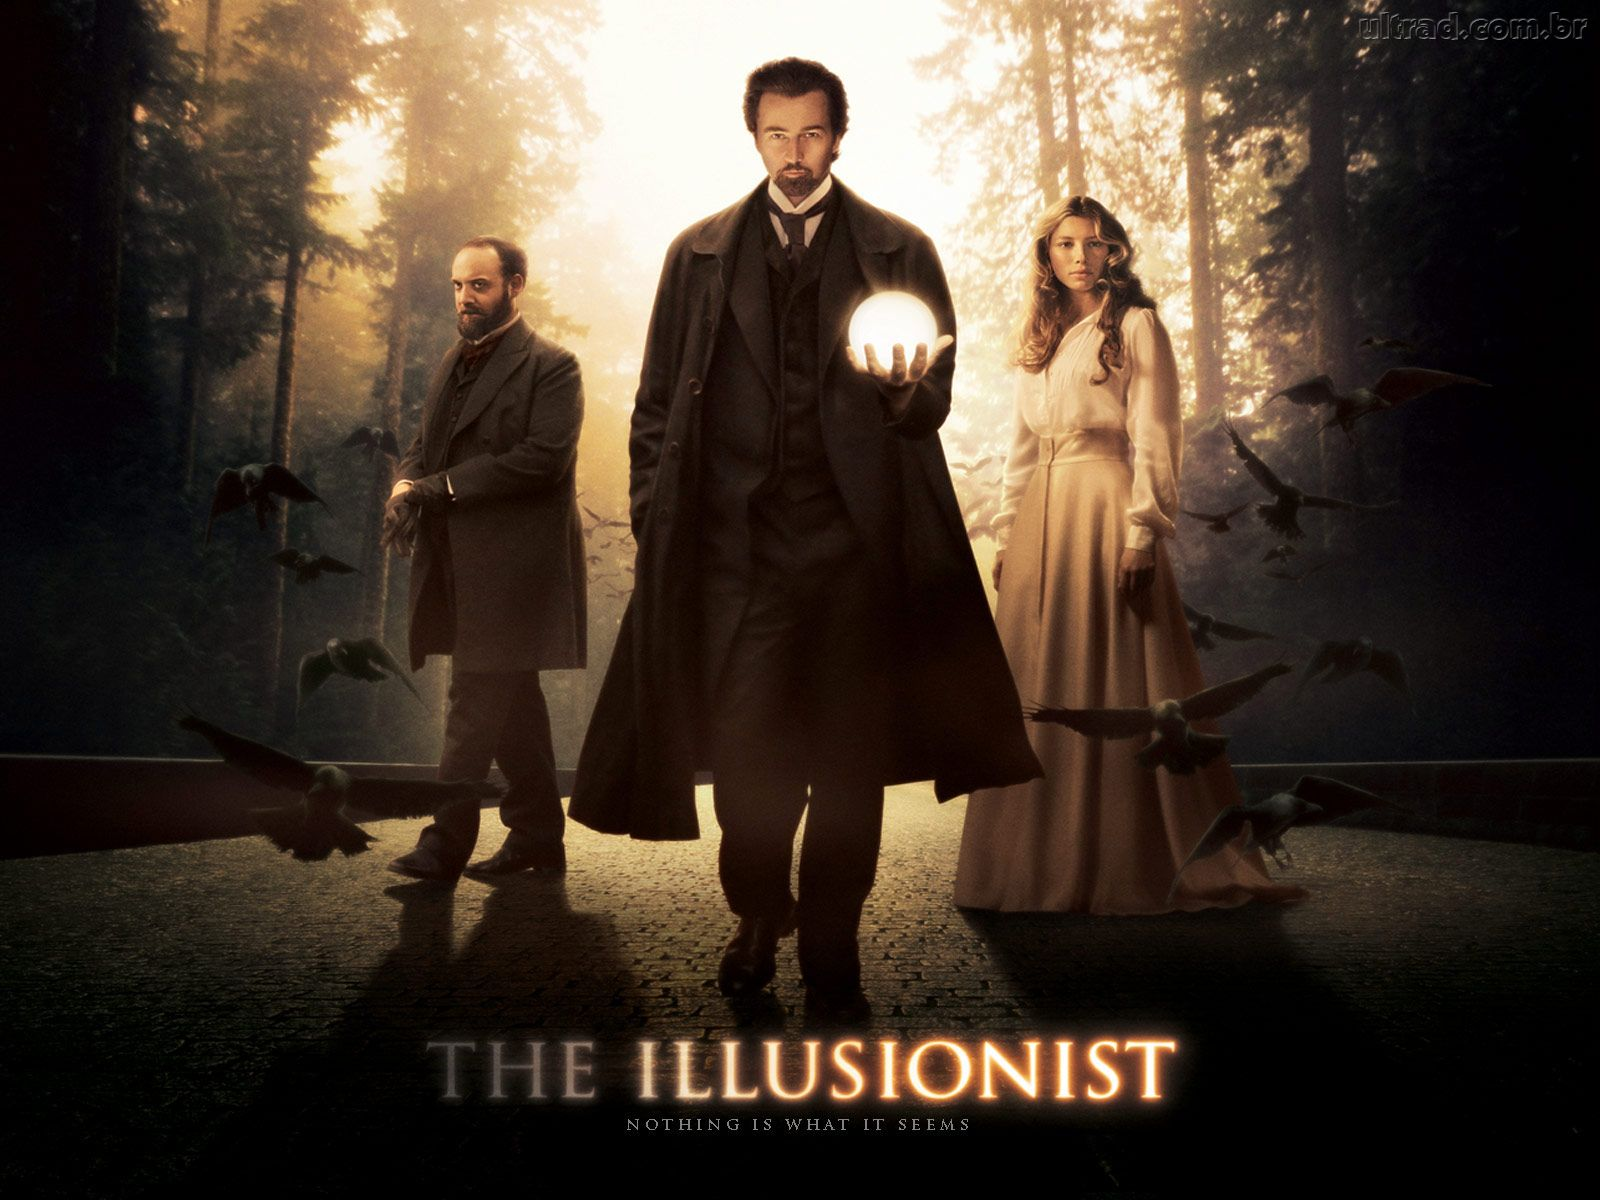
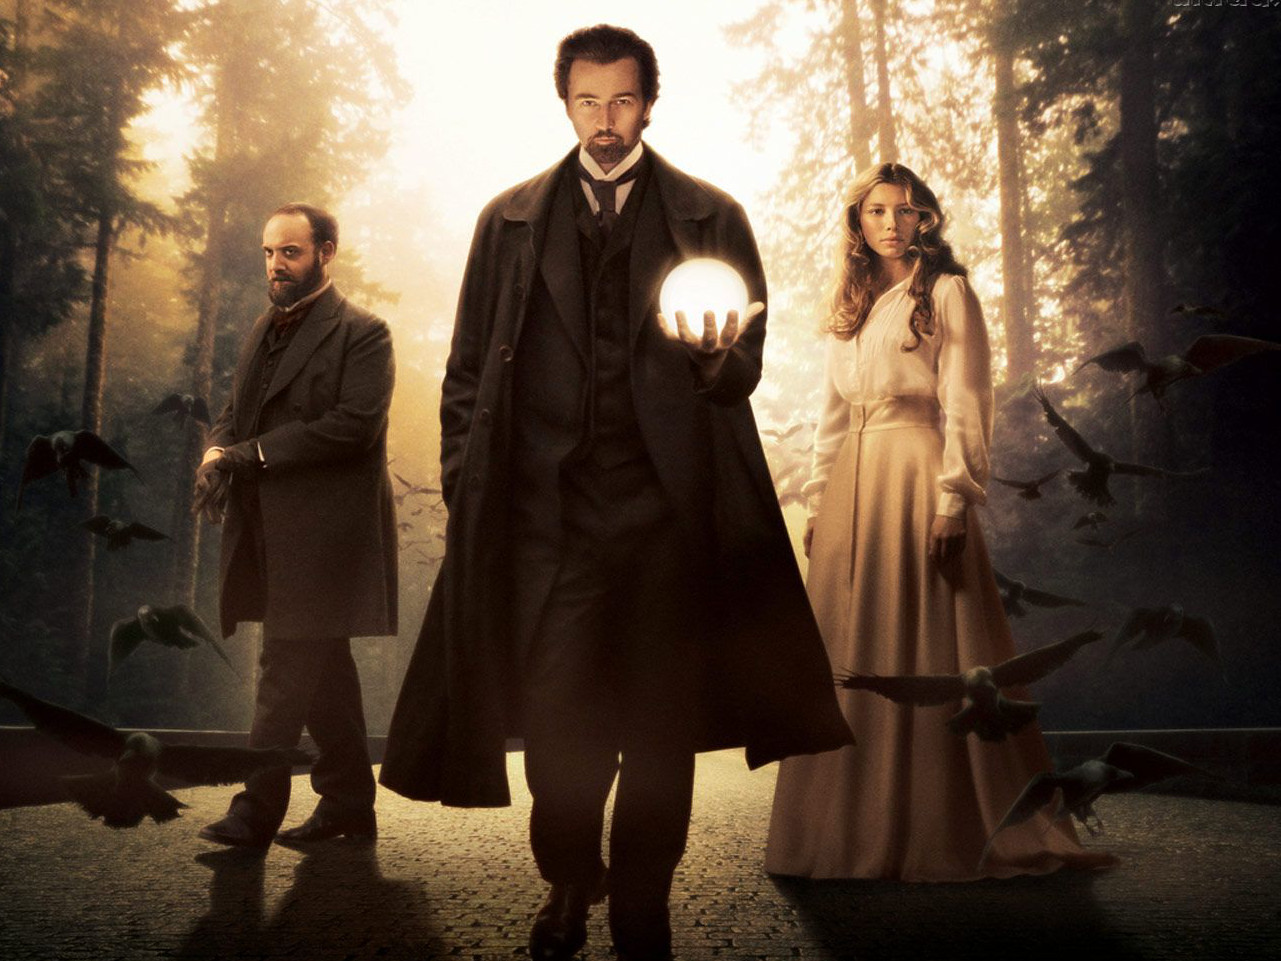
Ajustando imagem

diff --git a/output/index.html b/output/index.html
@@ -104,7 +104,7 @@ Fonte: Jakob Nielsen
 
       <section data-markdown>
         <script type="text/template">
-          <!-- .slide: data-background="images/ilusionista.jpg" -->
+          <!-- .slide: data-background="images/ilusionista.jpg" data-background-size="1024px" -->
 
 # crie ilusões para dar a impressão que o site carrega mais rápido
 

diff --git a/source/percepcao-ilusoes1.md b/source/percepcao-ilusoes1.md
@@ -1,3 +1,3 @@
-<!-- .slide: data-background="images/ilusionista.jpg" -->
+<!-- .slide: data-background="images/ilusionista.jpg" data-background-size="1024px" -->
 
 # crie ilusões para dar a impressão que o site carrega mais rápido
